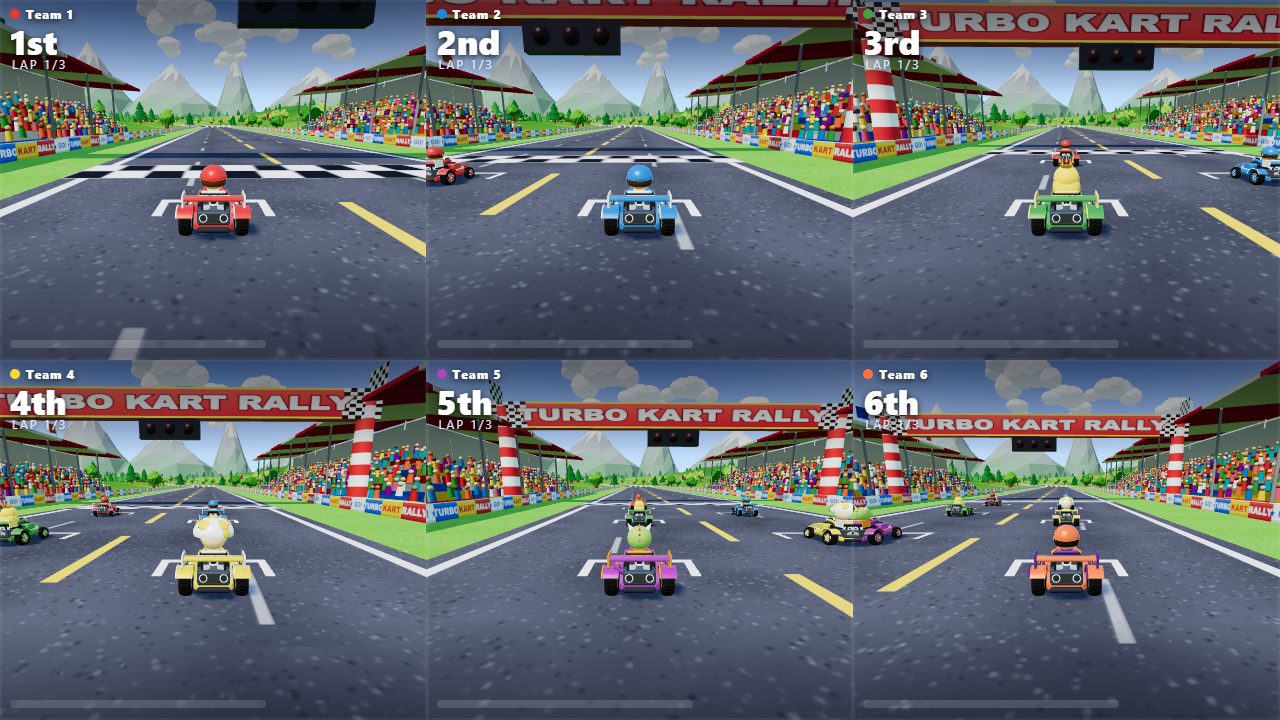
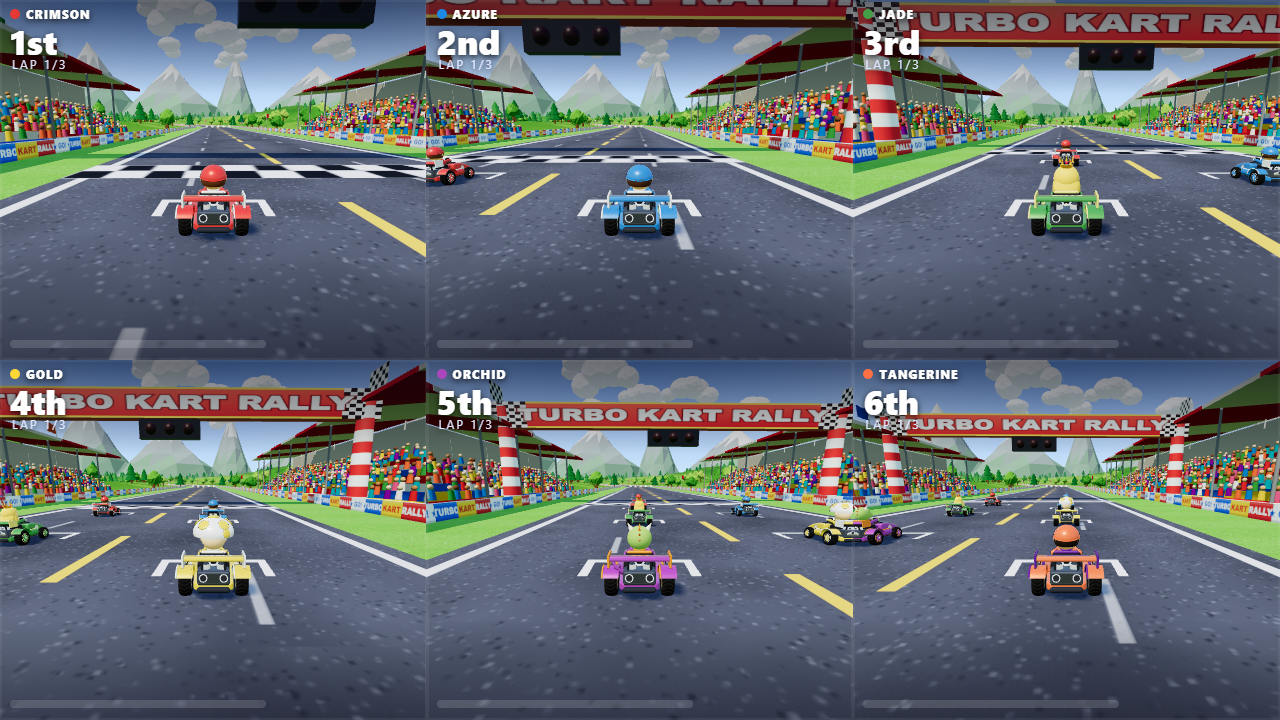
docs: event screenshots in README

diff --git a/README.md b/README.md
@@ -194,6 +194,13 @@ and `send(msg)` for the local server.
 | ![Character select](docs/screenshots/character-select.jpg) | ![Racing](docs/screenshots/race.jpg) |
 | ![Items and grandstands](docs/screenshots/items.jpg) | ![Results](docs/screenshots/results.jpg) |
 
+Event mode:
+
+| | |
+| --- | --- |
+| ![Lobby](docs/screenshots-event/02-lobby-six.png) | ![Split screen](docs/screenshots-event/06-split-race.png) |
+| ![Results](docs/screenshots-event/08-results.png) | ![Leaderboard](docs/screenshots-event/09-leaderboard.png) |
+
 ## Disclaimer
 
 Turbo Kart Rally is an original, fan-made homage to the kart-racing genre. It is not affiliated with, endorsed by, or associated with Nintendo. All characters, circuits, names, art, music and code in this repository are original.
